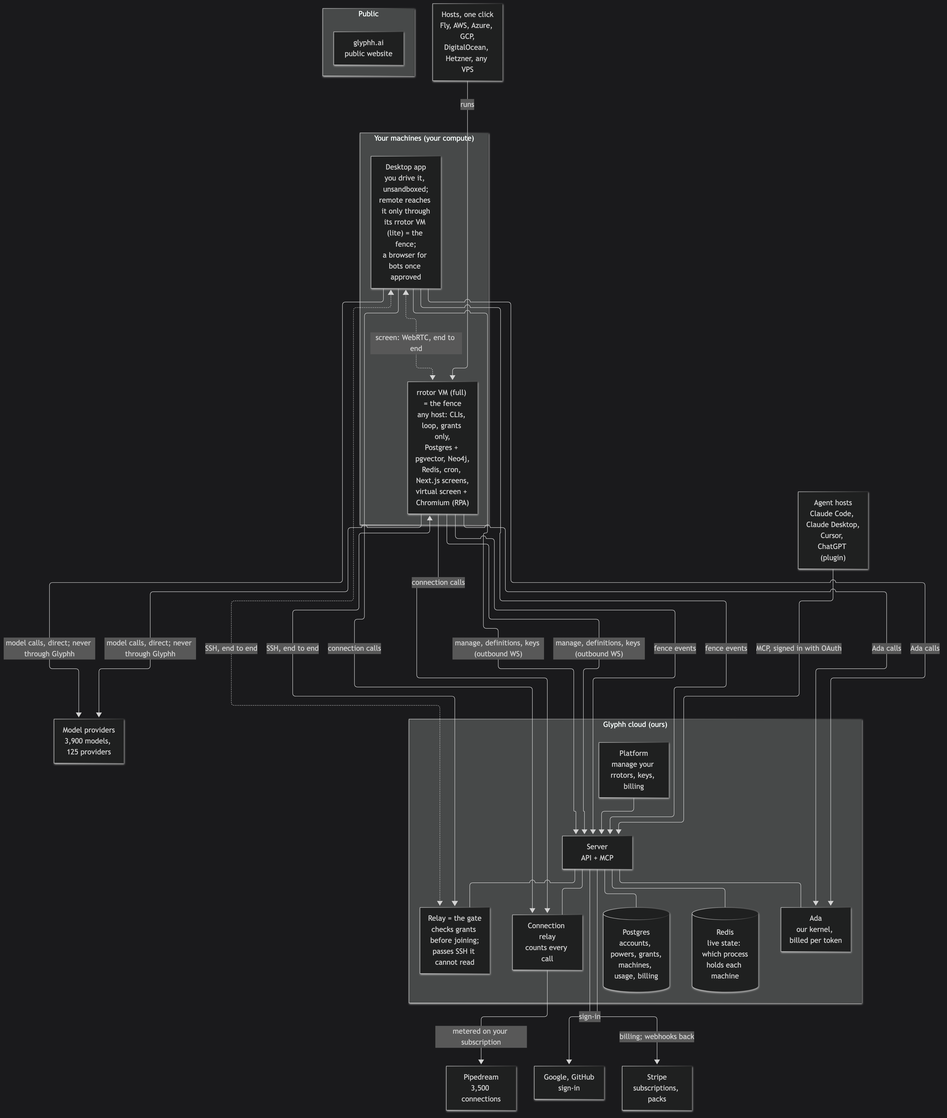
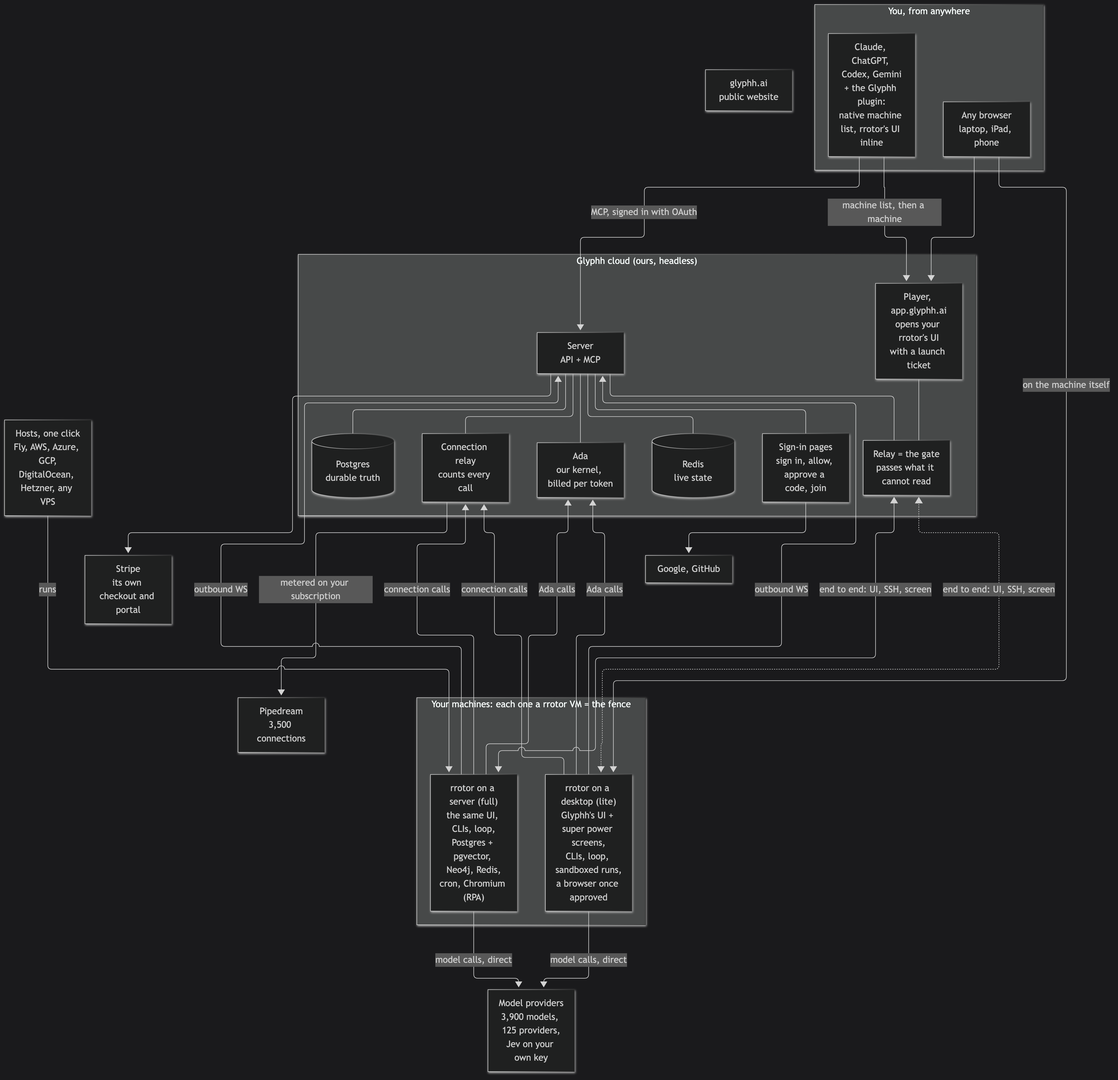
No desktop app, no platform: every rrotor serves Glyphh's UI, opened in Claude or any browser through the player; sign in once on the server; launch tickets; four sign-in pages; workspaces go

diff --git a/docs/architecture.md b/docs/architecture.md
@@ -2,56 +2,59 @@
 
 ```mermaid
 flowchart TB
-    subgraph Public["Public"]
-        Site["glyphh.ai<br/>public website"]
+    subgraph You["You, from anywhere"]
+        Claude["Claude, ChatGPT, Codex, Gemini<br/>+ the Glyphh plugin:<br/>native machine list, rrotor's UI inline"]
+        Browser["Any browser<br/>laptop, iPad, phone"]
     end
 
-    subgraph Cloud["Glyphh cloud (ours)"]
-        Platform["Platform<br/>manage your rrotors, keys, billing"]
+    subgraph Cloud["Glyphh cloud (ours, headless)"]
+        Pages["Sign-in pages<br/>sign in, allow, approve a code, join"]
+        Player["Player, app.glyphh.ai<br/>opens your rrotor's UI<br/>with a launch ticket"]
         Server["Server<br/>API + MCP"]
-        DB[("Postgres<br/>accounts, powers, grants,<br/>machines, usage, billing")]
-        Live[("Redis<br/>live state: which process<br/>holds each machine")]
-        Relay["Relay = the gate<br/>checks grants before joining;<br/>passes SSH it cannot read"]
+        DB[("Postgres<br/>durable truth")]
+        Live[("Redis<br/>live state")]
+        Relay["Relay = the gate<br/>passes what it cannot read"]
         ConnRelay["Connection relay<br/>counts every call"]
         Ada["Ada<br/>our kernel, billed per token"]
-        Platform --> Server
         Server --- DB
         Server --- Live
         Server --- Relay
         Server --- ConnRelay
         Server --- Ada
+        Server --- Pages
+        Player --- Relay
     end
 
-    subgraph Yours["Your machines (your compute)"]
-        Desktop["Desktop app<br/>you drive it, unsandboxed;<br/>remote reaches it only through<br/>its rrotor VM (lite) = the fence;<br/>a browser for bots once approved"]
-        Remote["rrotor VM (full) = the fence<br/>any host: CLIs, loop, grants only,<br/>Postgres + pgvector, Neo4j,<br/>Redis, cron, Next.js screens,<br/>virtual screen + Chromium (RPA)"]
+    subgraph Yours["Your machines: each one a rrotor VM = the fence"]
+        R1["rrotor on a desktop (lite)<br/>Glyphh's UI + super power screens,<br/>CLIs, loop, sandboxed runs,<br/>a browser once approved"]
+        R2["rrotor on a server (full)<br/>the same UI, CLIs, loop,<br/>Postgres + pgvector, Neo4j, Redis,<br/>cron, Chromium (RPA)"]
     end
 
-    Agents["Agent hosts<br/>Claude Code, Claude Desktop,<br/>Cursor, ChatGPT (plugin)"]
-    SignIn["Google, GitHub<br/>sign-in"]
-    Stripe["Stripe<br/>subscriptions, packs"]
-    Providers["Model providers<br/>3,900 models, 125 providers"]
-    Pipedream["Pipedream<br/>3,500 connections"]
-
-    Desktop -- "manage, definitions, keys (outbound WS)" --> Server
-    Remote -- "manage, definitions, keys (outbound WS)" --> Server
-    Desktop <-. "SSH, end to end" .-> Relay
-    Relay <-. "SSH, end to end" .-> Remote
-    Desktop <-. "screen: WebRTC, end to end" .-> Remote
     Hosts["Hosts, one click<br/>Fly, AWS, Azure, GCP,<br/>DigitalOcean, Hetzner, any VPS"]
-    Hosts -- "runs" --> Remote
-    Desktop -- "model calls, direct; never through Glyphh" --> Providers
-    Remote -- "model calls, direct; never through Glyphh" --> Providers
-    Desktop -- "connection calls" --> ConnRelay
-    Remote -- "connection calls" --> ConnRelay
-    Desktop -- "Ada calls" --> Ada
-    Remote -- "Ada calls" --> Ada
+    Site["glyphh.ai<br/>public website"]
+    Providers["Model providers<br/>3,900 models, 125 providers,<br/>Jev on your own key"]
+    Pipedream["Pipedream<br/>3,500 connections"]
+    Stripe["Stripe<br/>its own checkout and portal"]
+    SignIn["Google, GitHub"]
+
+    Claude -- "MCP, signed in with OAuth" --> Server
+    Claude -- "machine list, then a machine" --> Player
+    Browser --> Player
+    Browser -- "on the machine itself" --> R1
+    Relay <-. "end to end: UI, SSH, screen" .-> R1
+    Relay <-. "end to end: UI, SSH, screen" .-> R2
+    R1 -- "outbound WS" --> Server
+    R2 -- "outbound WS" --> Server
+    R1 -- "model calls, direct" --> Providers
+    R2 -- "model calls, direct" --> Providers
+    R1 -- "connection calls" --> ConnRelay
+    R2 -- "connection calls" --> ConnRelay
+    R1 -- "Ada calls" --> Ada
+    R2 -- "Ada calls" --> Ada
     ConnRelay -- "metered on your subscription" --> Pipedream
-    Agents -- "MCP, signed in with OAuth" --> Server
-    Server -- "sign-in" --> SignIn
-    Server -- "billing; webhooks back" --> Stripe
-    Desktop -- "fence events" --> Server
-    Remote -- "fence events" --> Server
+    Hosts -- "runs" --> R2
+    Pages --> SignIn
+    Server --> Stripe
 ```
 
 ![The whole system](img/architecture.png)
@@ -88,7 +91,7 @@ A single-deployment, multi-tenant cloud SaaS, headless first: every capability i
 
 Glyphh is a model runtime, not a gateway. The one thing it governs is which models and connections an org's users may add, set by the org and narrowed by its teams. Spend, rate limits and every other rule belong to an AI gateway the customer puts in front of their models (a model's base URL can point at it). A model is a person's own: they add it with their own key (a provider, the provider's model id and an API key), and a super power is granted as many of theirs as it needs; when it runs, rrotor calls the provider directly with that key. Glyphh stores the model's setup and never routes, meters, limits or pays for a model call. The key is encrypted on the server and handed only to a member's own runtime.
 
-Adding a model happens in the app, where the member edits a super power: its models opens the full catalog, the way connections opens Pipedream's, searchable by provider, name and type, each entry with its provider's logo, name, description and type. Picking one asks for the key in that same window; the app sends it to the server's API through the SDK, and the server saves the model as the member's power, encrypted, and grants it to the super power being edited (Glyphh needs no grant). When that super power runs, rrotor asks the server for what it was granted and gets its models with their keys, over its own machine connection, and hands them to the loop and to the slots of its tasks. The platform does the same for an agent that needs a key (below).
+Adding a model happens in rrotor's UI, where the member edits a super power: its models opens the full catalog, the way connections opens Pipedream's, searchable by provider, name and type, each entry with its provider's logo, name, description and type. Picking one asks for the key on that same page; rrotor's UI sends it to the server's API through the SDK, and the server saves the model as the member's power, encrypted, and grants it to the super power being edited (Glyphh needs no grant). When that super power runs, rrotor asks the server for what it was granted and gets its models with their keys, over its own machine connection, and hands them to the loop and to the slots of its tasks. An agent never takes a key: a tool that needs one returns a launch ticket to that same page of the member's rrotor UI, and only hears back that it was saved and the key's last four characters.
 
 ### Connections
 
@@ -101,7 +104,7 @@ Connections are the moat: about 3,500 services (Gmail, Slack, Salesforce, ...) t
 
 - **Who is driving decides what can be asked.** In a run the member drives, a tool set to `ask` asks them. In a run nobody is watching (autonomous: on a clock, or started by an agent), `ask` means refused, so it uses only tools that are allowed, by the member or by the super power's own override.
 
-Glyphh has the super power editor: the skills and tools to create a super power, grant and take back its powers, machines and super powers, and test-run it. Only Glyphh edits super powers; a super power under it cannot change its own grants or another's. Every editor step is a server operation, so it is an API call and an MCP tool too: a member edits a super power by talking to Glyphh, or in the app's editor. Ported from the old app's super power and power builders.
+Glyphh has the super power editor: the skills and tools to create a super power, grant and take back its powers, machines and super powers, and test-run it. Only Glyphh edits super powers; a super power under it cannot change its own grants or another's. Every editor step is a server operation, so it is an API call and an MCP tool too: a member edits a super power by talking to Glyphh, or in rrotor's UI. Ported from the old app's super power and power builders.
 
 ### Tasks, the heart of rrotor
 
@@ -131,31 +134,31 @@ Everything a super power needs to run, on the member's own machine:
 - **Postgres with pgvector:** a super power's own data and its vectors. The server's Postgres has no pgvector; vectors live only in rrotor.
 - **Neo4j:** a super power's graph.
 - **Redis and cron:** queues, caches and the machine's own clock.
-- **A Next.js server:** serves a super power's screens.
+- **A Next.js server:** serves Glyphh's own UI (below) and each super power's screens.
 - **The loop:** the CLI or rrotor's own, with the super power's models and powers.
 
 It is the agent runtime: from it, a super power reaches about 3,900 models across about 125 providers directly, never through Glyphh's servers, and about 3,500 connections, which go through the server and are counted against the member's subscription.
 
-**The desktop app is a rrotor too, a lite one:** the CLIs and the loop, without pgvector or Neo4j. It connects to the member's other machines, so they can spread super powers across them and manage them all from one place.
+**On a desktop, rrotor is a lite one:** the UI, the CLIs and the loop, without pgvector or Neo4j. There is no app to install: a small signed helper starts the VM on macOS (Apple's virtualization needs one), and a script sets it up in WSL2 on Windows. Every rrotor connects to the member's other machines, so they can spread super powers across them and manage them all from any one.
 
 A super power's data and screens live in its member's rrotor, never on the server: the server holds the super power's definition and its grants, not what it stores.
 
-Still to draw with the rrotor definition: how a super power's data is kept apart from another's in that Postgres, and how its screens reach the app and the web when the machine is remote.
+Still to draw with the rrotor definition: how a super power's data is kept apart from another's in that Postgres, and how its screens are laid out inside Glyphh's UI.
 
-### rrotor is a Linux VM; the app you drive is not sandboxed
+### rrotor is a Linux VM, and everything Glyphh runs is inside it
 
 Decided 2026-10-11:
 
-- **rrotor is a small Linux VM.** On a server it is the machine; on a desktop the app runs it headless (Apple's Virtualization framework on macOS, WSL2 on Windows, locked down: no automounted drives, no Windows interop, no Windows PATH). Inside it, a run sees only the folders it was granted, mounted in; the rest of the desktop does not exist for it, so no shell, Bash tool or program can reach past them. On Linux desktops the same fence comes from namespaces and Landlock, without a VM.
-- **The app runs unsandboxed, because the member is driving.** Like Claude Code on their own machine: they see each step, approve what is risky, and can stop it. Glyphh, the agent they drive, has everything.
-- **Remote control reaches a desktop only through its rrotor, and only by grants.** Another machine, the web, the platform or a super power running unattended never touches the app or the desktop directly: it reaches the rrotor VM, which holds only what was granted. A super power is fenced whether or not anyone is watching it.
-- **The app's own tools that touch files, shells or processes move into rrotor,** so nothing remote can reach the desktop through a tool in the app instead of through bash. The app keeps its screens, its windows and its browser, which already keeps its own storage apart from the member's own browser; its downloads and uploads go to a granted folder.
+- **rrotor is a small Linux VM.** On a server it is the machine; on a desktop it runs headless (Apple's Virtualization framework on macOS, WSL2 on Windows, locked down: no automounted drives, no Windows interop, no Windows PATH). Inside it, a run sees only the folders it was granted, mounted in; the rest of the desktop does not exist for it, so no shell, Bash tool or program can reach past them. On Linux desktops the same fence comes from namespaces and Landlock, without a VM.
+- **There is no Glyphh app on the desktop.** What the member drives on their own machine is their own Claude or CLI, as it already is; everything Glyphh runs is inside rrotor.
+- **Everything reaches a machine only through its rrotor, and only by grants:** another machine, Claude, a browser, or a super power running unattended. A super power is fenced whether or not anyone is watching it.
+- **The old app's tools that touch files, shells, processes or a browser live in rrotor.**
 
 ### Runtime hosting
 
 Glyphh does not host runtimes. Members run rrotor on their own compute: their desktop, or a remote server on any infrastructure (Fly.io, Railway, Render, AWS, a VPS).
 
-- rrotor ships as one Linux image: a Docker image for servers, and the same system as the VM the desktop app runs.
+- rrotor ships as one Linux image: a Docker image for servers, and the same system as the VM a desktop runs.
 - It connects out to the server, never in, so a remote server needs no public address, ports or firewall rules.
 - **One-click hosting:** a real VM, not a platform container (per-run sandboxes and the virtual screen need a whole machine): Fly Machines, AWS (a CloudFormation quick-create link), Azure (Deploy to Azure), GCP, DigitalOcean and Hetzner (a first-boot script), and a one-line install for any other VPS.
 - **A new host registers itself:** the button carries a one-time code the server mints already approved, for minutes and one use; on first boot the machine trades it for its own token and SSH key. The member never copies a token, and no code is minted when the plan has no machine left.
@@ -168,8 +171,8 @@ A full rrotor runs a virtual screen (a display with no monitor) and a real Chrom
 - **Watching:** the screen streams to the member's app or the web over WebRTC, whose video is encrypted end to end by design: the server only passes the call setup over the relay, and a TURN relay used when no direct path exists cannot decrypt it. If WebRTC cannot connect, screen frames go over the SSH channel instead. The server never sees the screen.
 - **Signing into a website:** the member takes control. The bot pauses, the member's taps and keystrokes go straight into the remote browser over the encrypted channel, they type the password and do the 2FA themselves, and hand control back. While they hold it no screenshot goes to the model, so a password or a code never reaches the model or a chat. The run's log records when control changed hands.
 - **Sessions stay on the machine:** each browser profile (a `browsers` power) lives on one rrotor and is granted like a folder, so one super power's signed-in sites are never another's. Cookies never leave that machine.
-- **On a desktop:** when the member drives Glyphh, it uses the app's own browser and the member's own sessions, because they are at the keyboard. A super power running on the desktop (unattended, a bot) never touches the app's browser: it gets its own Chromium and virtual screen inside the desktop's rrotor VM, fenced and watched like a remote rrotor's, and the member's own sessions are never shared with it.
-- **Fetched only with the member's approval:** the desktop's VM does not carry the browser until the first super power that needs one is placed on that desktop. Then the app asks first and explains: what it is (a separate browser inside the fence, for super powers only, which never sees the member's own sessions), what it costs (a few hundred MB on disk, roughly 300 to 500 MB of memory while a browser is open), and why (browser work runs on this machine and its own internet address, which some sites trust more than a cloud server). Declined, the super power cannot be placed on that desktop and is offered a remote rrotor instead; approved, the browser is fetched once and kept.
+- **On a desktop:** super powers get their own Chromium and virtual screen inside the desktop's rrotor VM, fenced and watched like a remote rrotor's. The member's own browser and its sessions are never used.
+- **Fetched only with the member's approval:** the desktop's VM does not carry the browser until the first super power that needs one is placed on that desktop. Then rrotor's UI asks first and explains: what it is (a separate browser inside the fence, for super powers only, which never sees the member's own sessions), what it costs (a few hundred MB on disk, roughly 300 to 500 MB of memory while a browser is open), and why (browser work runs on this machine and its own internet address, which some sites trust more than a cloud server). Declined, the super power cannot be placed on that desktop and is offered a remote rrotor instead; approved, the browser is fetched once and kept.
 - **Later:** a password manager (1Password) can fill sign-ins without the model seeing them. Passkeys are tied to the member's own device and cannot be used remotely; such sites need a password and 2FA through take-over.
 
 ### Machine to machine: SSH over the relay
@@ -184,38 +187,58 @@ A member's machines reach each other, so from machine A they can watch machine B
     - **drive:** send a prompt, answer a question, stop a run;
     - **files:** inside the folders the member granted;
     - **shell:** off until the member turns it on for that machine (`shell_enabled`), because a shell is the whole machine.
-- **Who:** for now only the machine's owner, from their own machines, the app or the web. The server checks it before joining two connections.
+- **Who:** for now only the machine's owner, from their own machines, from Claude, or from a browser through the player. The server checks it before joining two connections.
 - **When B drops:** A is told at once, and can join again when B is back.
 
-**The relay is the gate; rrotor is the fence.** The relay cannot read the stream, and an escape attempt never crosses it anyway (`cd /` happens inside B's VM), so the folders are enforced in B's rrotor, where what was not granted is not mounted. The relay guards the door in front: before it joins two machines it checks who is asking, which machine, which super power and which channel (watch, drive, files, shell) against the grants, and refuses anything else before SSH starts; B's rrotor checks the same again when the channel opens. When a grant is revoked, a machine removed or a power disabled, the relay cuts the live sessions at once and the server tells rrotor to unmount. When something inside a run reaches past its fence, rrotor reports it to the server (`fence_events`), and the platform shows it. Neither depends on the other being honest.
+**The relay is the gate; rrotor is the fence.** The relay cannot read the stream, and an escape attempt never crosses it anyway (`cd /` happens inside B's VM), so the folders are enforced in B's rrotor, where what was not granted is not mounted. The relay guards the door in front: before it joins two machines it checks who is asking, which machine, which super power and which channel (watch, drive, files, shell) against the grants, and refuses anything else before SSH starts; B's rrotor checks the same again when the channel opens. When a grant is revoked, a machine removed or a power disabled, the relay cuts the live sessions at once and the server tells rrotor to unmount. When something inside a run reaches past its fence, rrotor reports it to the server (`fence_events`), and rrotor's UI shows it. Neither depends on the other being honest.
 
 Ported from the old relay (`/ws/attach`), which kept the outbound sockets, the fixed list of methods and the folder grants, but let the server read every frame, put the user's sign-in token in the URL, and had no machine identity of its own.
 
-### Platform
+### No app, no platform: rrotor's UI, everywhere
 
-A web app in its own repo (`glyphh-ai/platform`): a client of the server's API through the SDK, like the app, the CLI and the plugin. The server stays headless and serves no pages.
+Decided 2026-10-11. Glyphh ships no desktop app and no platform web app. Every rrotor's app server serves Glyphh's own UI: the member's super powers, the editor (powers, grants, slots, schedules), runs and their live screens, keys, usage and billing, and for org admins the org's members, teams and limits. It is the same UI on every machine, made to feel native wherever it opens, and it reads what it shows from the server's API (accounts, grants, usage) and from its own rrotor (runs, logs, screens).
 
-It holds what must never go through a chat: an API key is never typed to an agent or passed through MCP. The app's own window is not a chat, so the app takes a key directly; an agent never does. A tool that needs a key returns a one-time link to the platform (single use, short lived, tied to that member and that model); the agent opens it in the browser, the member signs in (the link alone is never enough), pastes the key, and the platform sends it to the server's API, encrypted at rest there. The agent only hears that it was saved and the key's last four characters. For people it shows what each one has, never what is inside: Tom has 4 connections, 3 models, 2 super powers and 2 machines. The platform also carries sign-in and consent, approving a machine's sign-in code, accepting an invite, and the hand-off to Stripe for billing.
+**Where it opens:**
 
-Its usage and billing pages read the server's usage events and credit ledger through the API, scoped as the data model says (a user their own, an org admin the org, a super admin every org):
+- **In Claude (or ChatGPT):** "open my Glyphh machines" calls a plugin tool that returns a UI Claude renders in the chat: the member's machines from the server, online or not, desktop or server, in Claude's own theme (with one machine, it opens it straight away). Tapping a machine opens its rrotor's UI there, through the player. Claude keeps driving the same machine through the plugin's tools beside it. Claude Code in a terminal, which shows no UI, opens the member's browser on the same pages instead.
+- **In any browser:** app.glyphh.ai, the player: the same machine list and the same rrotor UI, from a laptop, an iPad or a phone. On the machine itself, rrotor's UI also answers locally.
+
+**The player** carries rrotor's UI from the member's machine to wherever it opens, and never stores what passes: app.glyphh.ai serves only a small shell, which opens an encrypted channel straight to the rrotor (WebRTC, the server only setting up the call) and loads the UI through it. Where a host's sandbox blocks that, the page offers to open in the browser instead, so nothing dead-ends.
+
+**Signing in happens once, on the server,** never on a machine: the plugin's OAuth or the player's sign-in. Opening a machine uses a **launch ticket**: the server issues it for one machine and one member, for a minute, once; the rrotor checks it with the server and starts the session. Most members have one rrotor, often not the machine they are on; the machine list never depends on any machine being up.
+
+**Usage and billing pages** read the server's usage events and credit ledger through the API, scoped as the data model says (a user their own, an org admin the org, a super admin every org):
 
 - **Usage:** the period's credits used and left, then the same calls grouped by user, by connector, by super power, by machine and by day, and the call log under it: time, user, super power, machine, connector, tool, duration, credits and status, filtered by any of them and exported as CSV. Each row opens to its full detail.
-- **Billing** (org admins): the plan, seats, included and extra machines, the period's dates, the credit allowance and packs with their ledger, upgrading, buying a pack, and the hand-off to Stripe for invoices and payment methods.
+- **Billing** (org admins): the plan, seats, included and extra machines, the period's dates, the credit allowance and packs with their ledger, upgrading, buying a pack, and Stripe's own pages for checkout, invoices and payment methods.
 
 The API behind them is three operations, also MCP tools so an agent can answer "what did we spend on Gmail this month": a summary grouped by one dimension over a time range, the call log (filtered, newest first, paged by cursor), and the balance with its ledger.
+
+**What the old app arranged goes:** workspaces, tabs, layouts and the dock were the desktop app's way of arranging its windows. With no app, Claude or the browser is the frame; where the member works is a machine and its folders, which are already powers.
+
+### Sign-in pages
+
+The server's only pages, small and rendered by the server, with no data on them:
+
+1. **Sign in:** choose Google or GitHub; their page does the rest.
+2. **Allow:** "Claude wants to use your Glyphh": allow or deny, for an agent host's OAuth.
+3. **Approve a code:** "Is this code on your new machine or CLI?", for a machine's or a CLI's sign-in.
+4. **Join:** an invite lands here, then goes to sign in.
+
+Everything that changes an account, billing or super powers happens in rrotor's UI, or on Stripe's own pages. API keys stay for scripts, CI and CLIs that would rather send a key.
 
 ### Interfaces
 
 Two ways in, one per surface, both in the `glyphh-ai/glyphh` repo (private for now, public later). Neither carries logic of its own: same accounts, permission checks and tenant rules as the server.
 
-- **SDK (on the API):** a typed client generated from the server's OpenAPI spec; handles sign-in and tokens, streaming over Server-Sent Events, retries and pagination. TypeScript first (the app on desktop, web and mobile, and the CLI), Python second.
-- **Plugin (on MCP):** one install for agent hosts (Claude Code and Claude Desktop, Cursor, ChatGPT apps): the `/mcp` connection signed in with OAuth, plus skills that teach the agent to use Glyphh's tools.
+- **SDK (on the API):** a typed client generated from the server's OpenAPI spec; handles sign-in and tokens, streaming over Server-Sent Events, retries and pagination. TypeScript first (rrotor's UI, the player and the plugin), Python second.
+- **Plugin (on MCP):** one install for agent hosts (Claude Code and Claude Desktop, Cursor, ChatGPT apps): the `/mcp` connection signed in with OAuth, skills that teach the agent to use Glyphh's tools, and the native machine list that opens rrotor's UI.
 
 ### Access
 
-- **Sign-in:** Google and GitHub. Their screens are the sign-in; the server takes the callback and redirects back to the app or agent, so it serves no page of its own. No magic links: mail scanners use them up, they break across devices, and they train people to click sign-in links in email. Microsoft can follow, the same way, when business users need it.
+- **Sign-in:** Google and GitHub. Their screens are the sign-in; the server takes the callback and returns to Claude, the player or rrotor's UI, serving only its few sign-in pages. No magic links: mail scanners use them up, they break across devices, and they train people to click sign-in links in email. Microsoft can follow, the same way, when business users need it.
 - **People are found by the provider's own id** for them, never by email alone, so a changed email or a hidden GitHub email still finds the same person.
-- **Tokens:** after a Google or GitHub sign-in the server issues its own tokens to the app and the platform; every token carries its org.
+- **Tokens:** after a Google or GitHub sign-in the server issues its own tokens to the player and to rrotor's UI; every token carries its org. A machine's UI is opened with a launch ticket, never a token in a URL.
 - **Machines** sign in with a code the member approves in the browser, and get a machine token of their own, sent in a header, never in a URL.
 - **Agent hosts** (the plugin in Claude Code, Cursor, ChatGPT) sign in with OAuth: the member approves each host, and can revoke one without the others.
 
